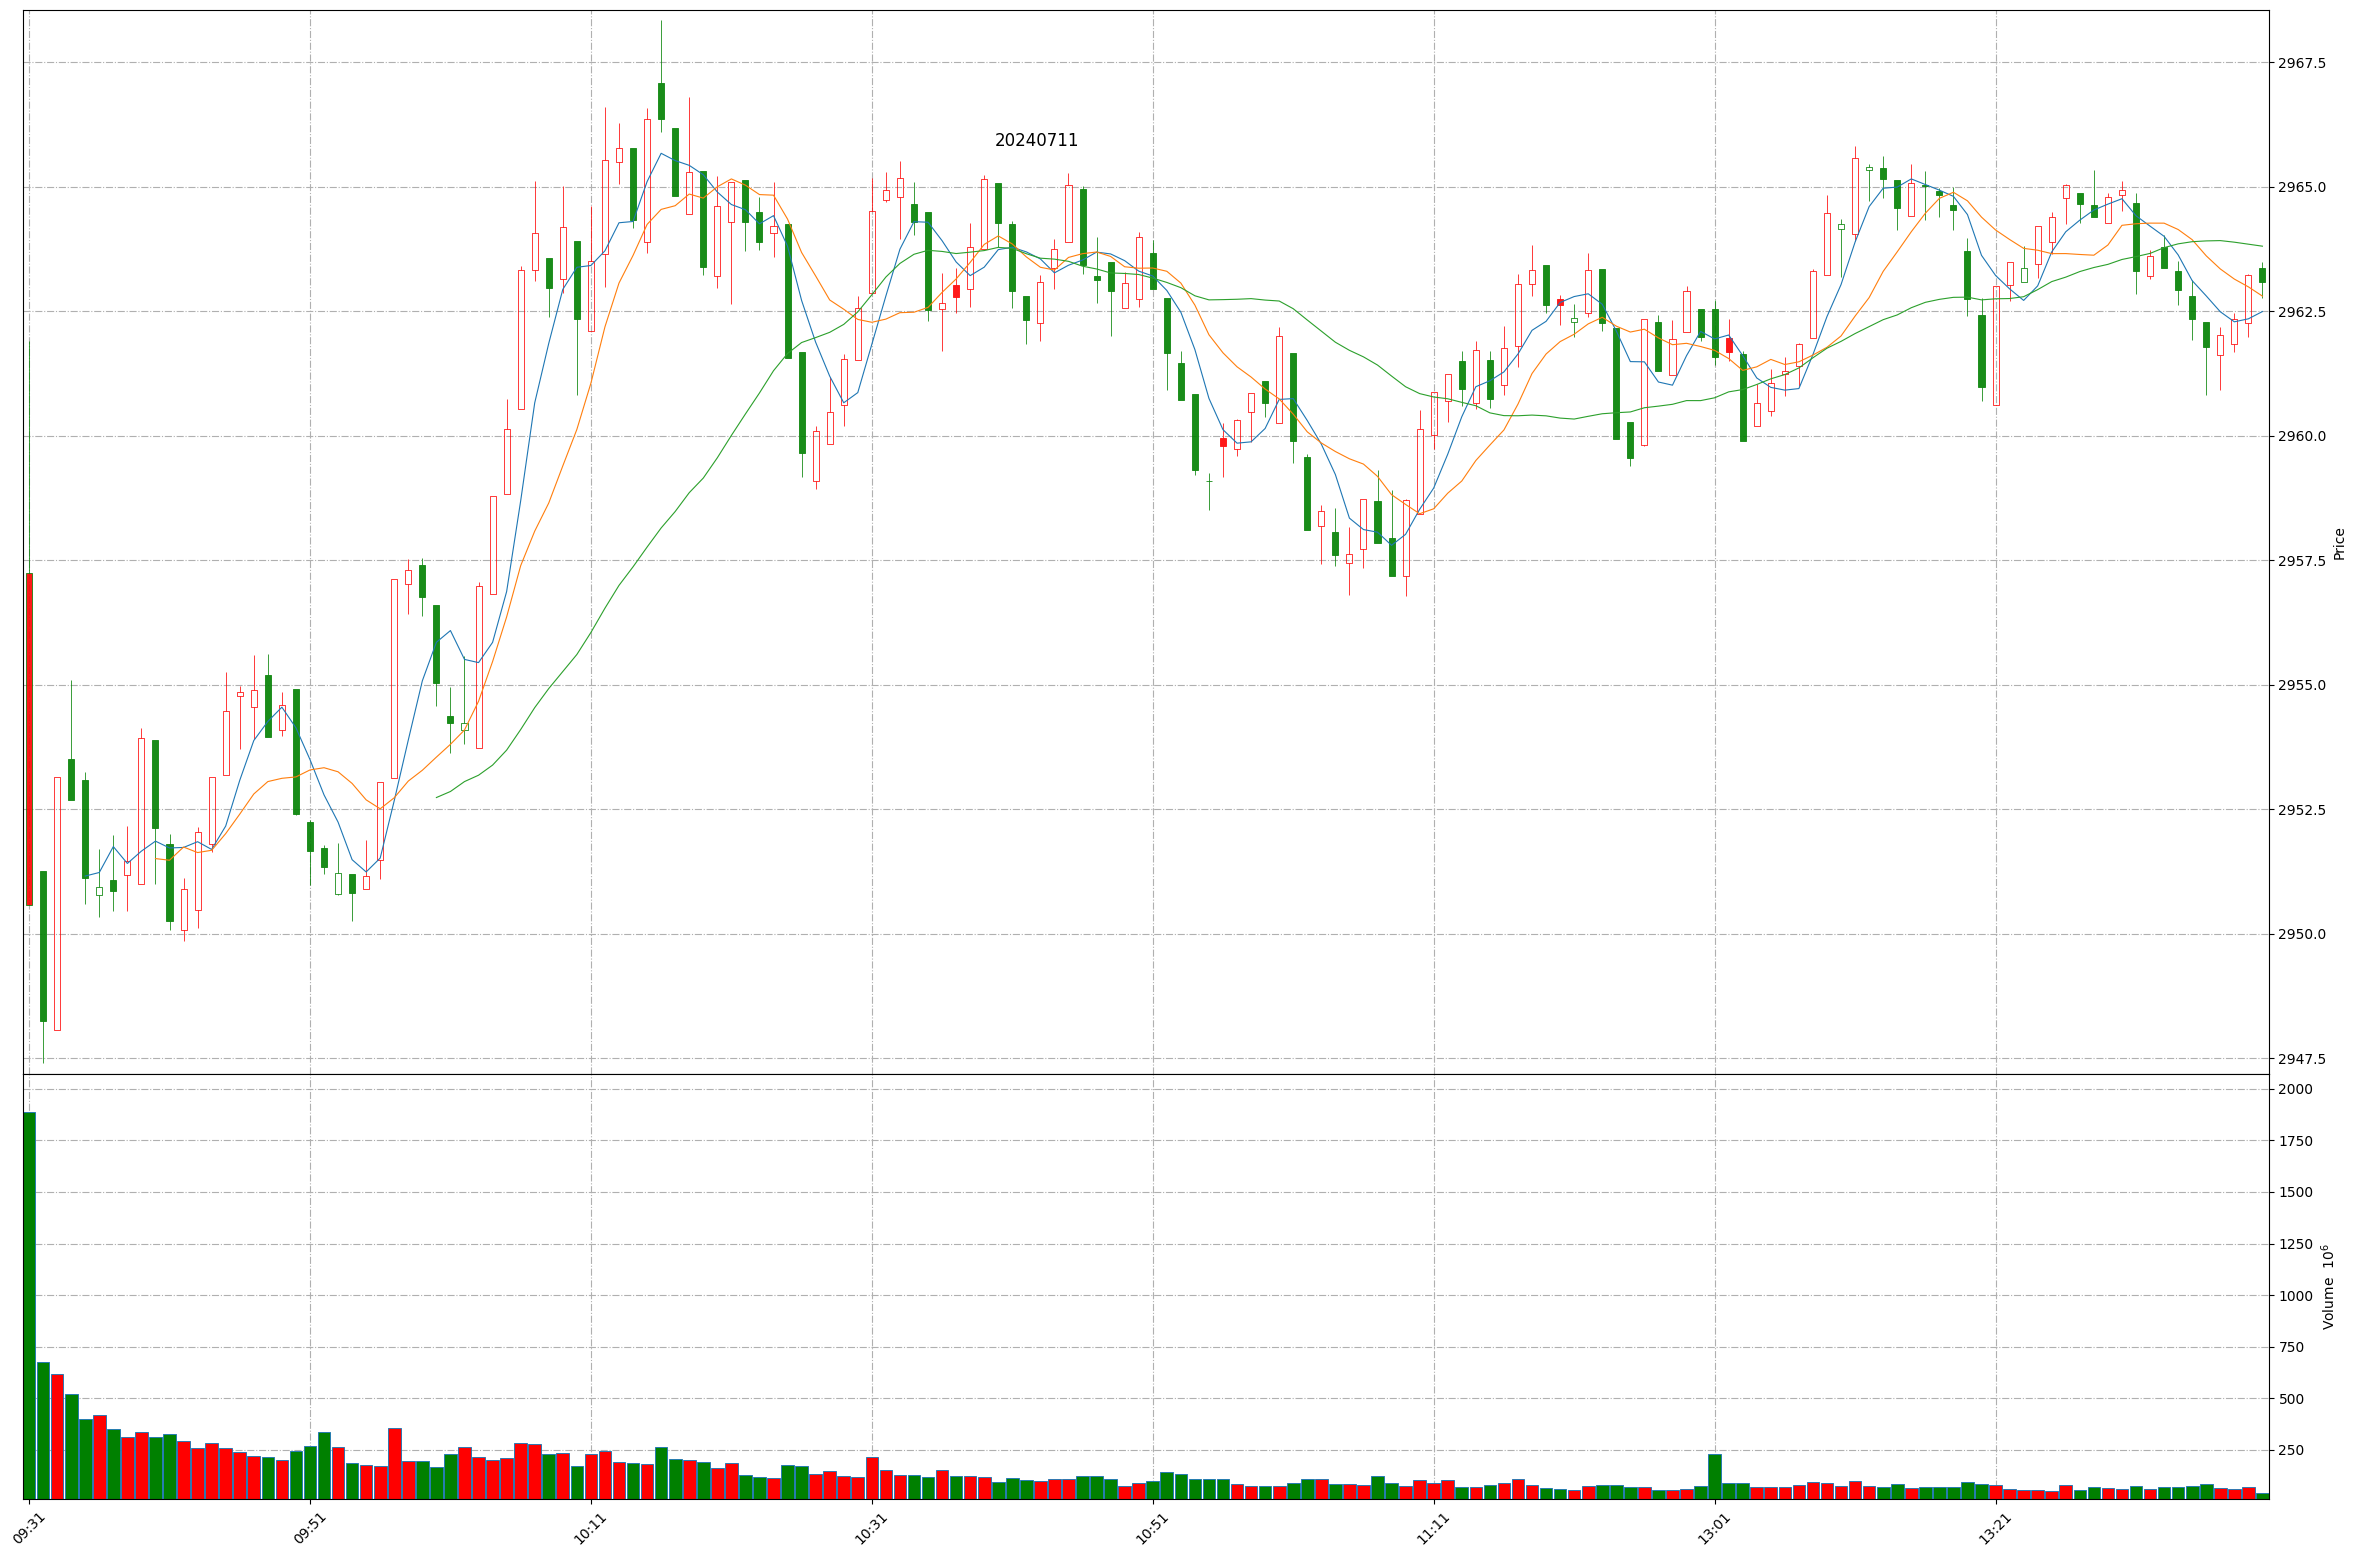
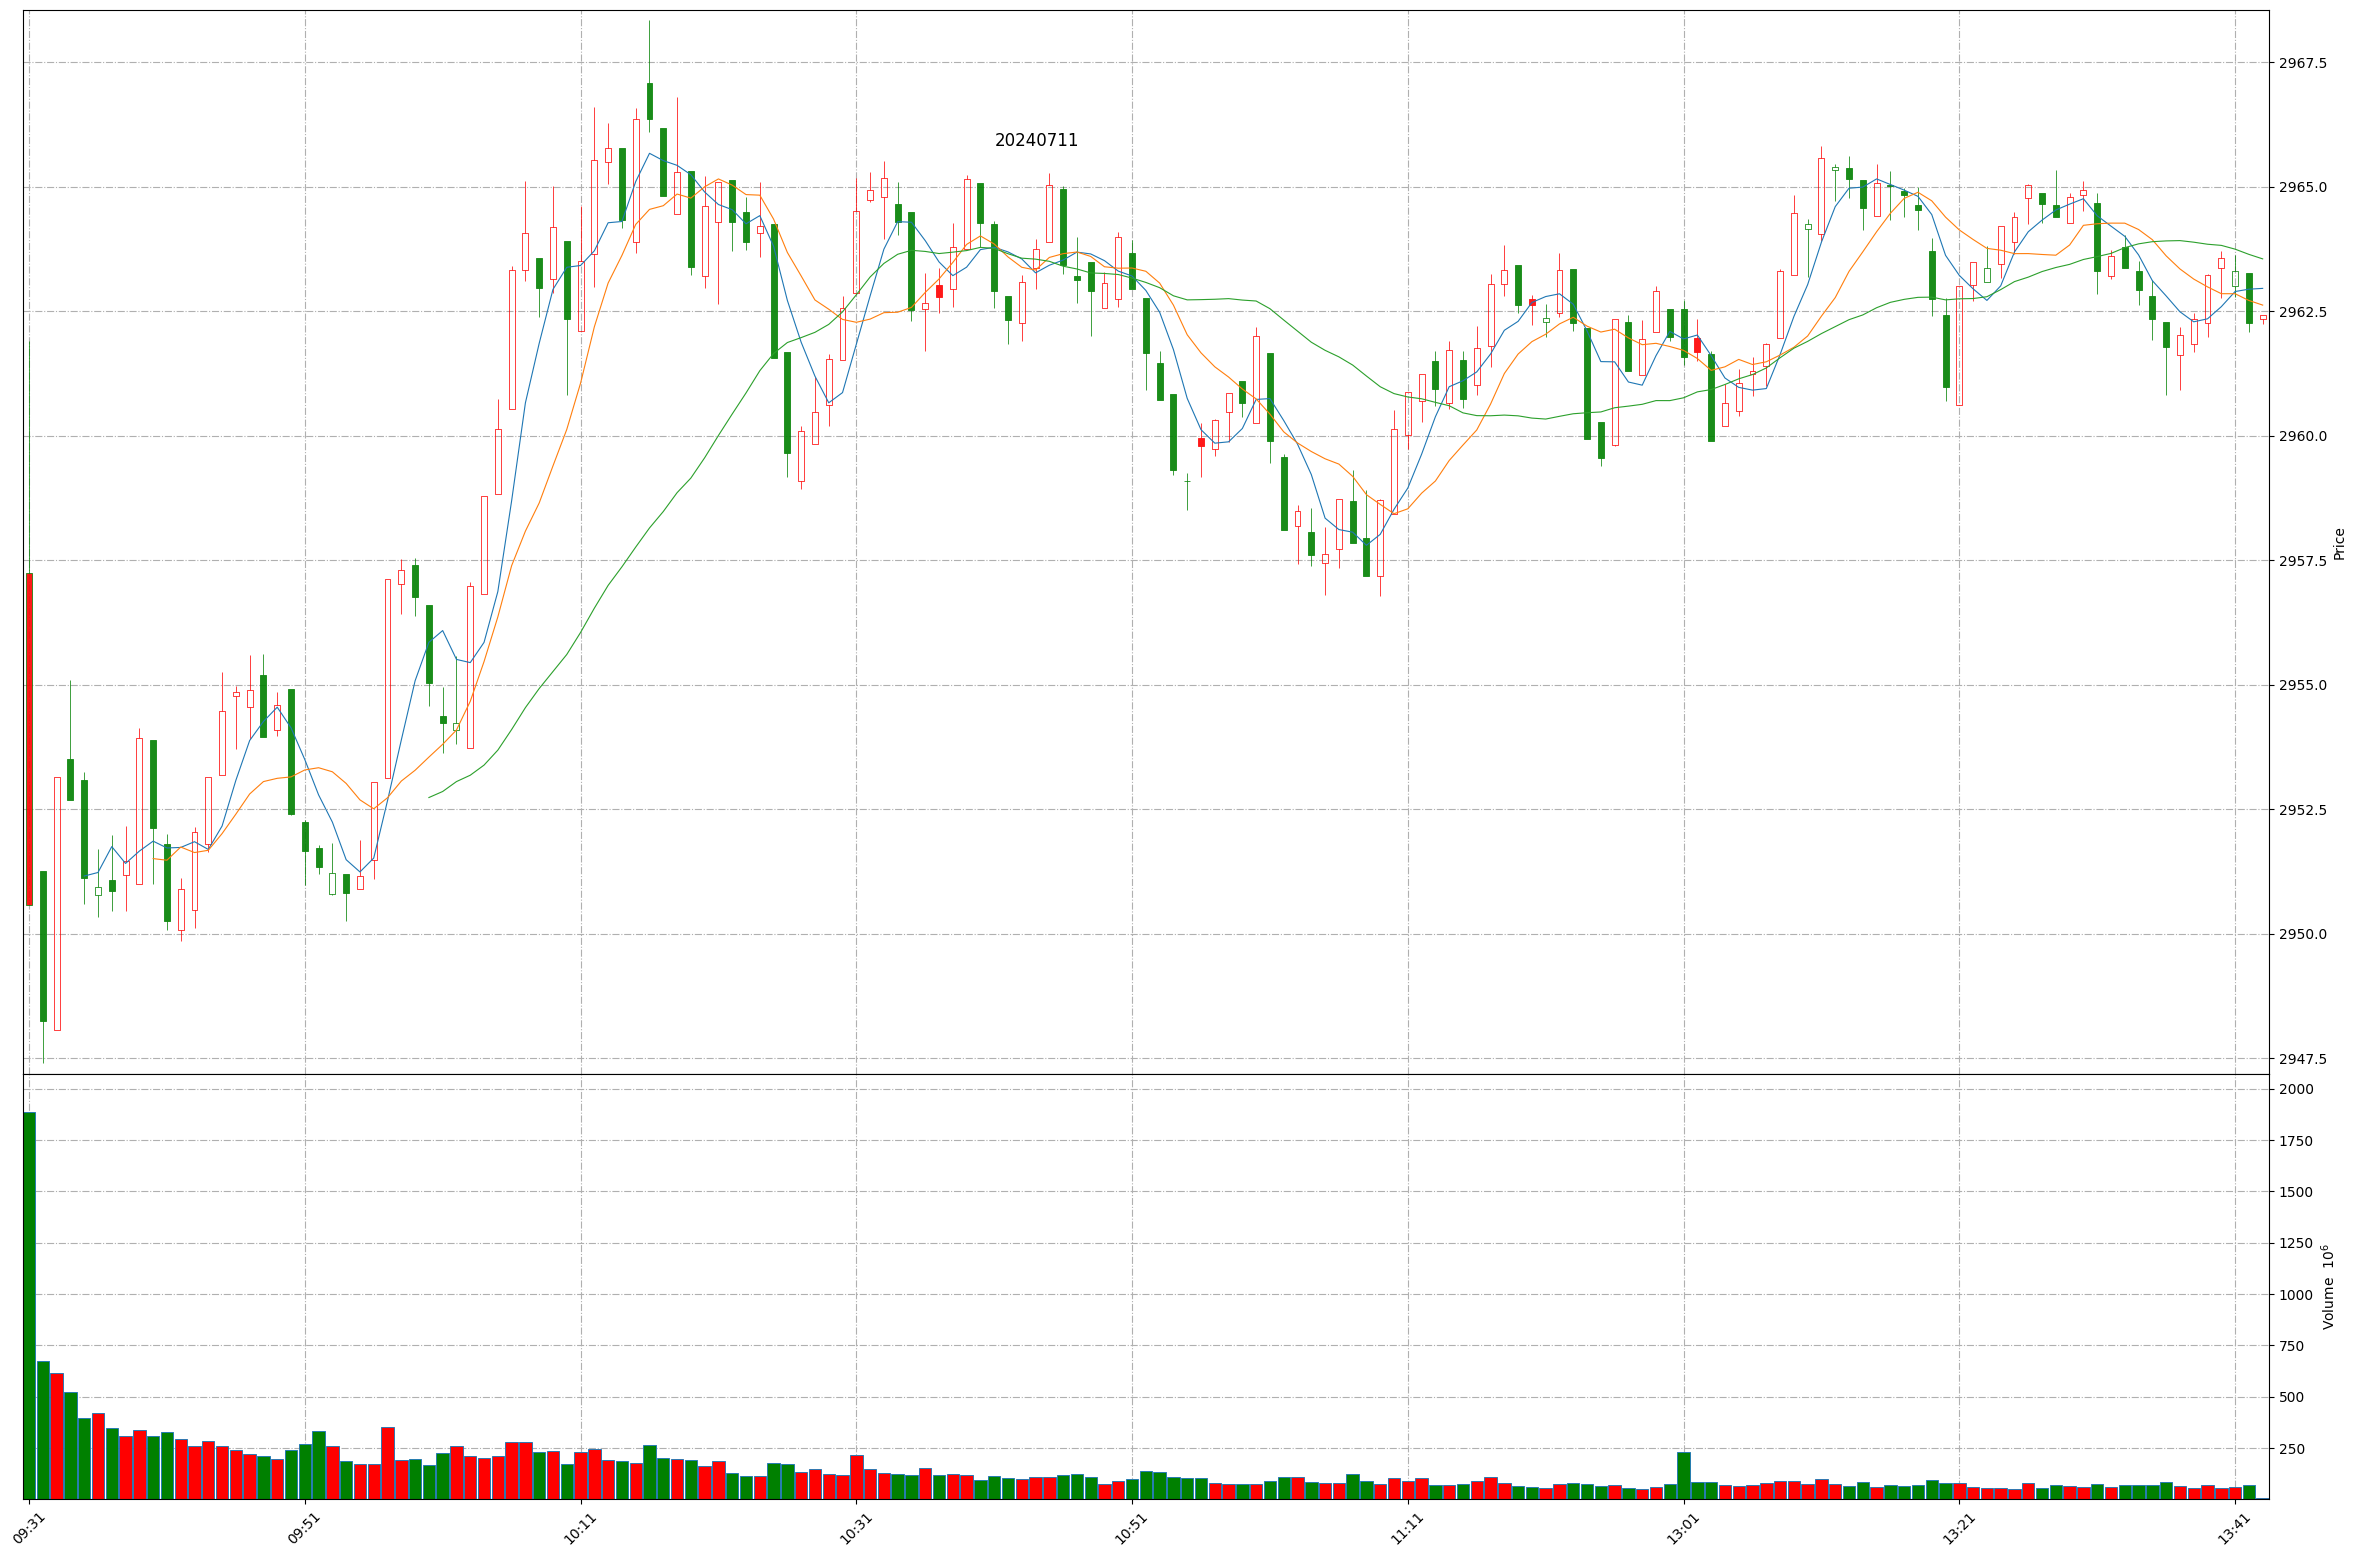
Github action update at 2024-07-11 13:42:35.

diff --git a/README.md b/README.md
@@ -1,11 +1,11 @@
 
 # Daily-A-share-market-quotes 每日 A 股指数（5min 更新）- 20240711
 
-### 上证指数 20240711 13:40
+### 上证指数 20240711 13:42
 ![](./fig/2024/7/20240711-sh000001.png)
 
-### 深证成指 20240711 13:40
+### 深证成指 20240711 13:42
 ![](./fig/2024/7/20240711-sz399001.png)
 
-### 北证50 20240711 13:40
+### 北证50 20240711 13:42
 ![](./fig/2024/7/20240711-bj899050.png)
